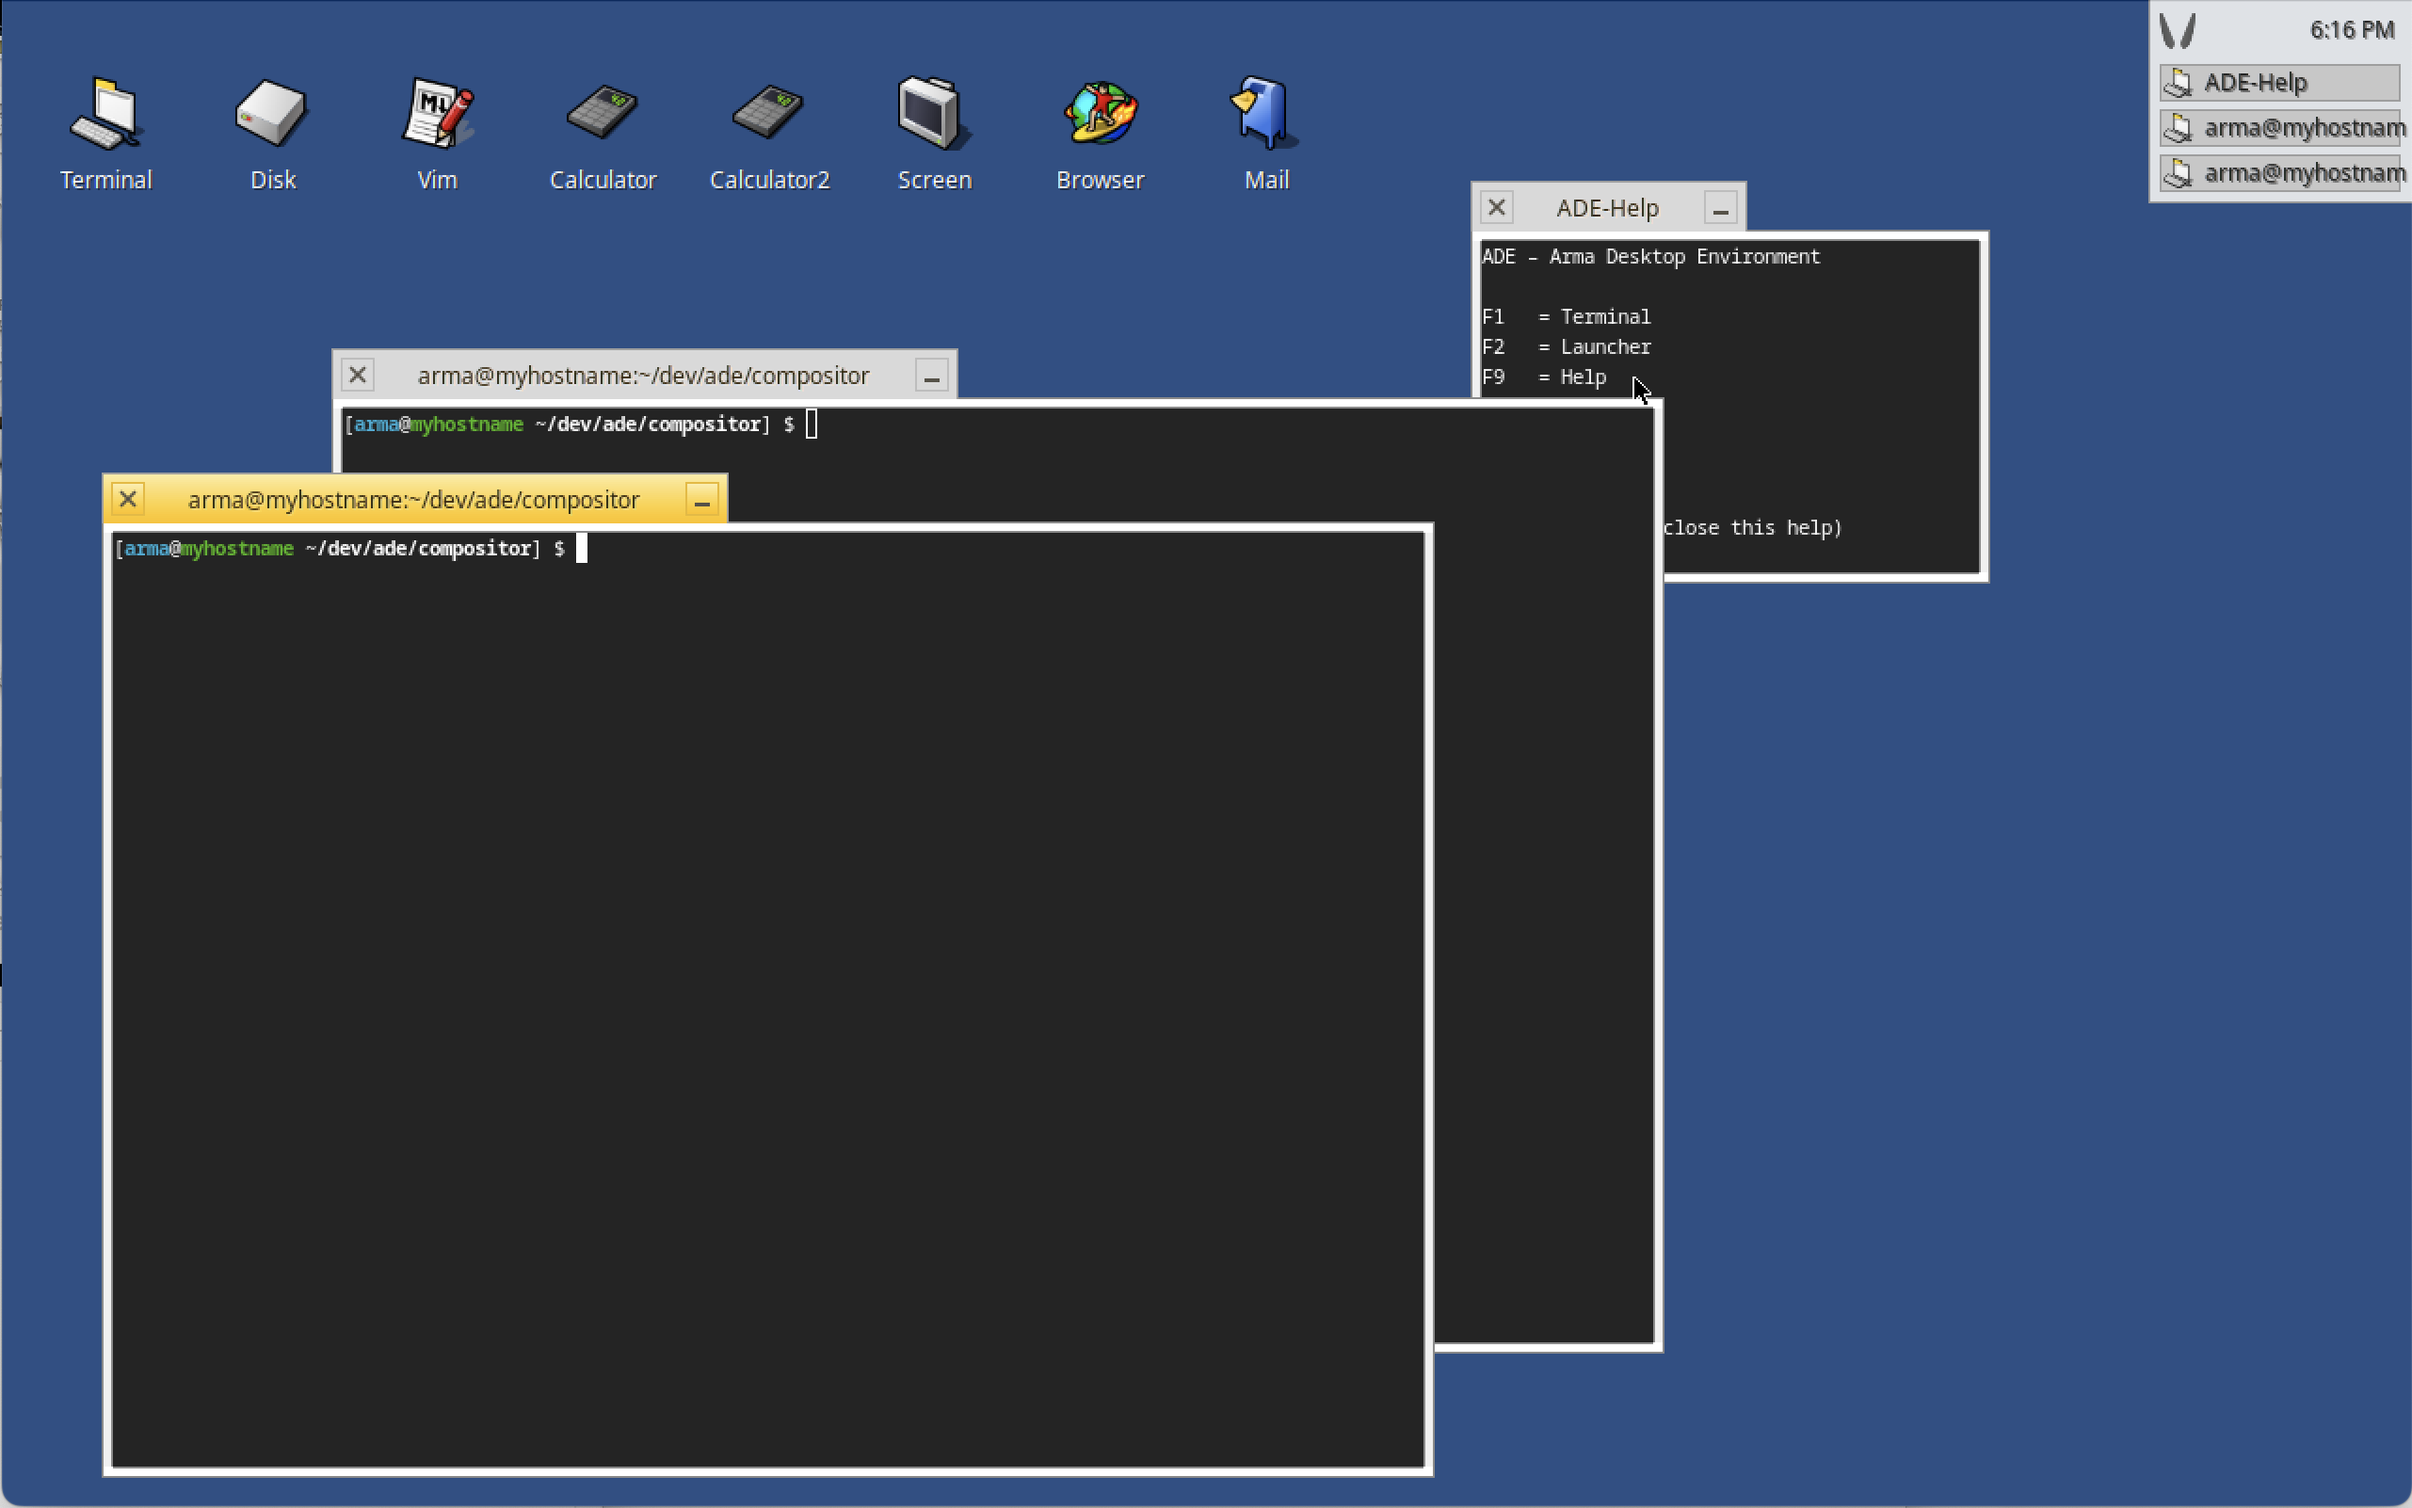
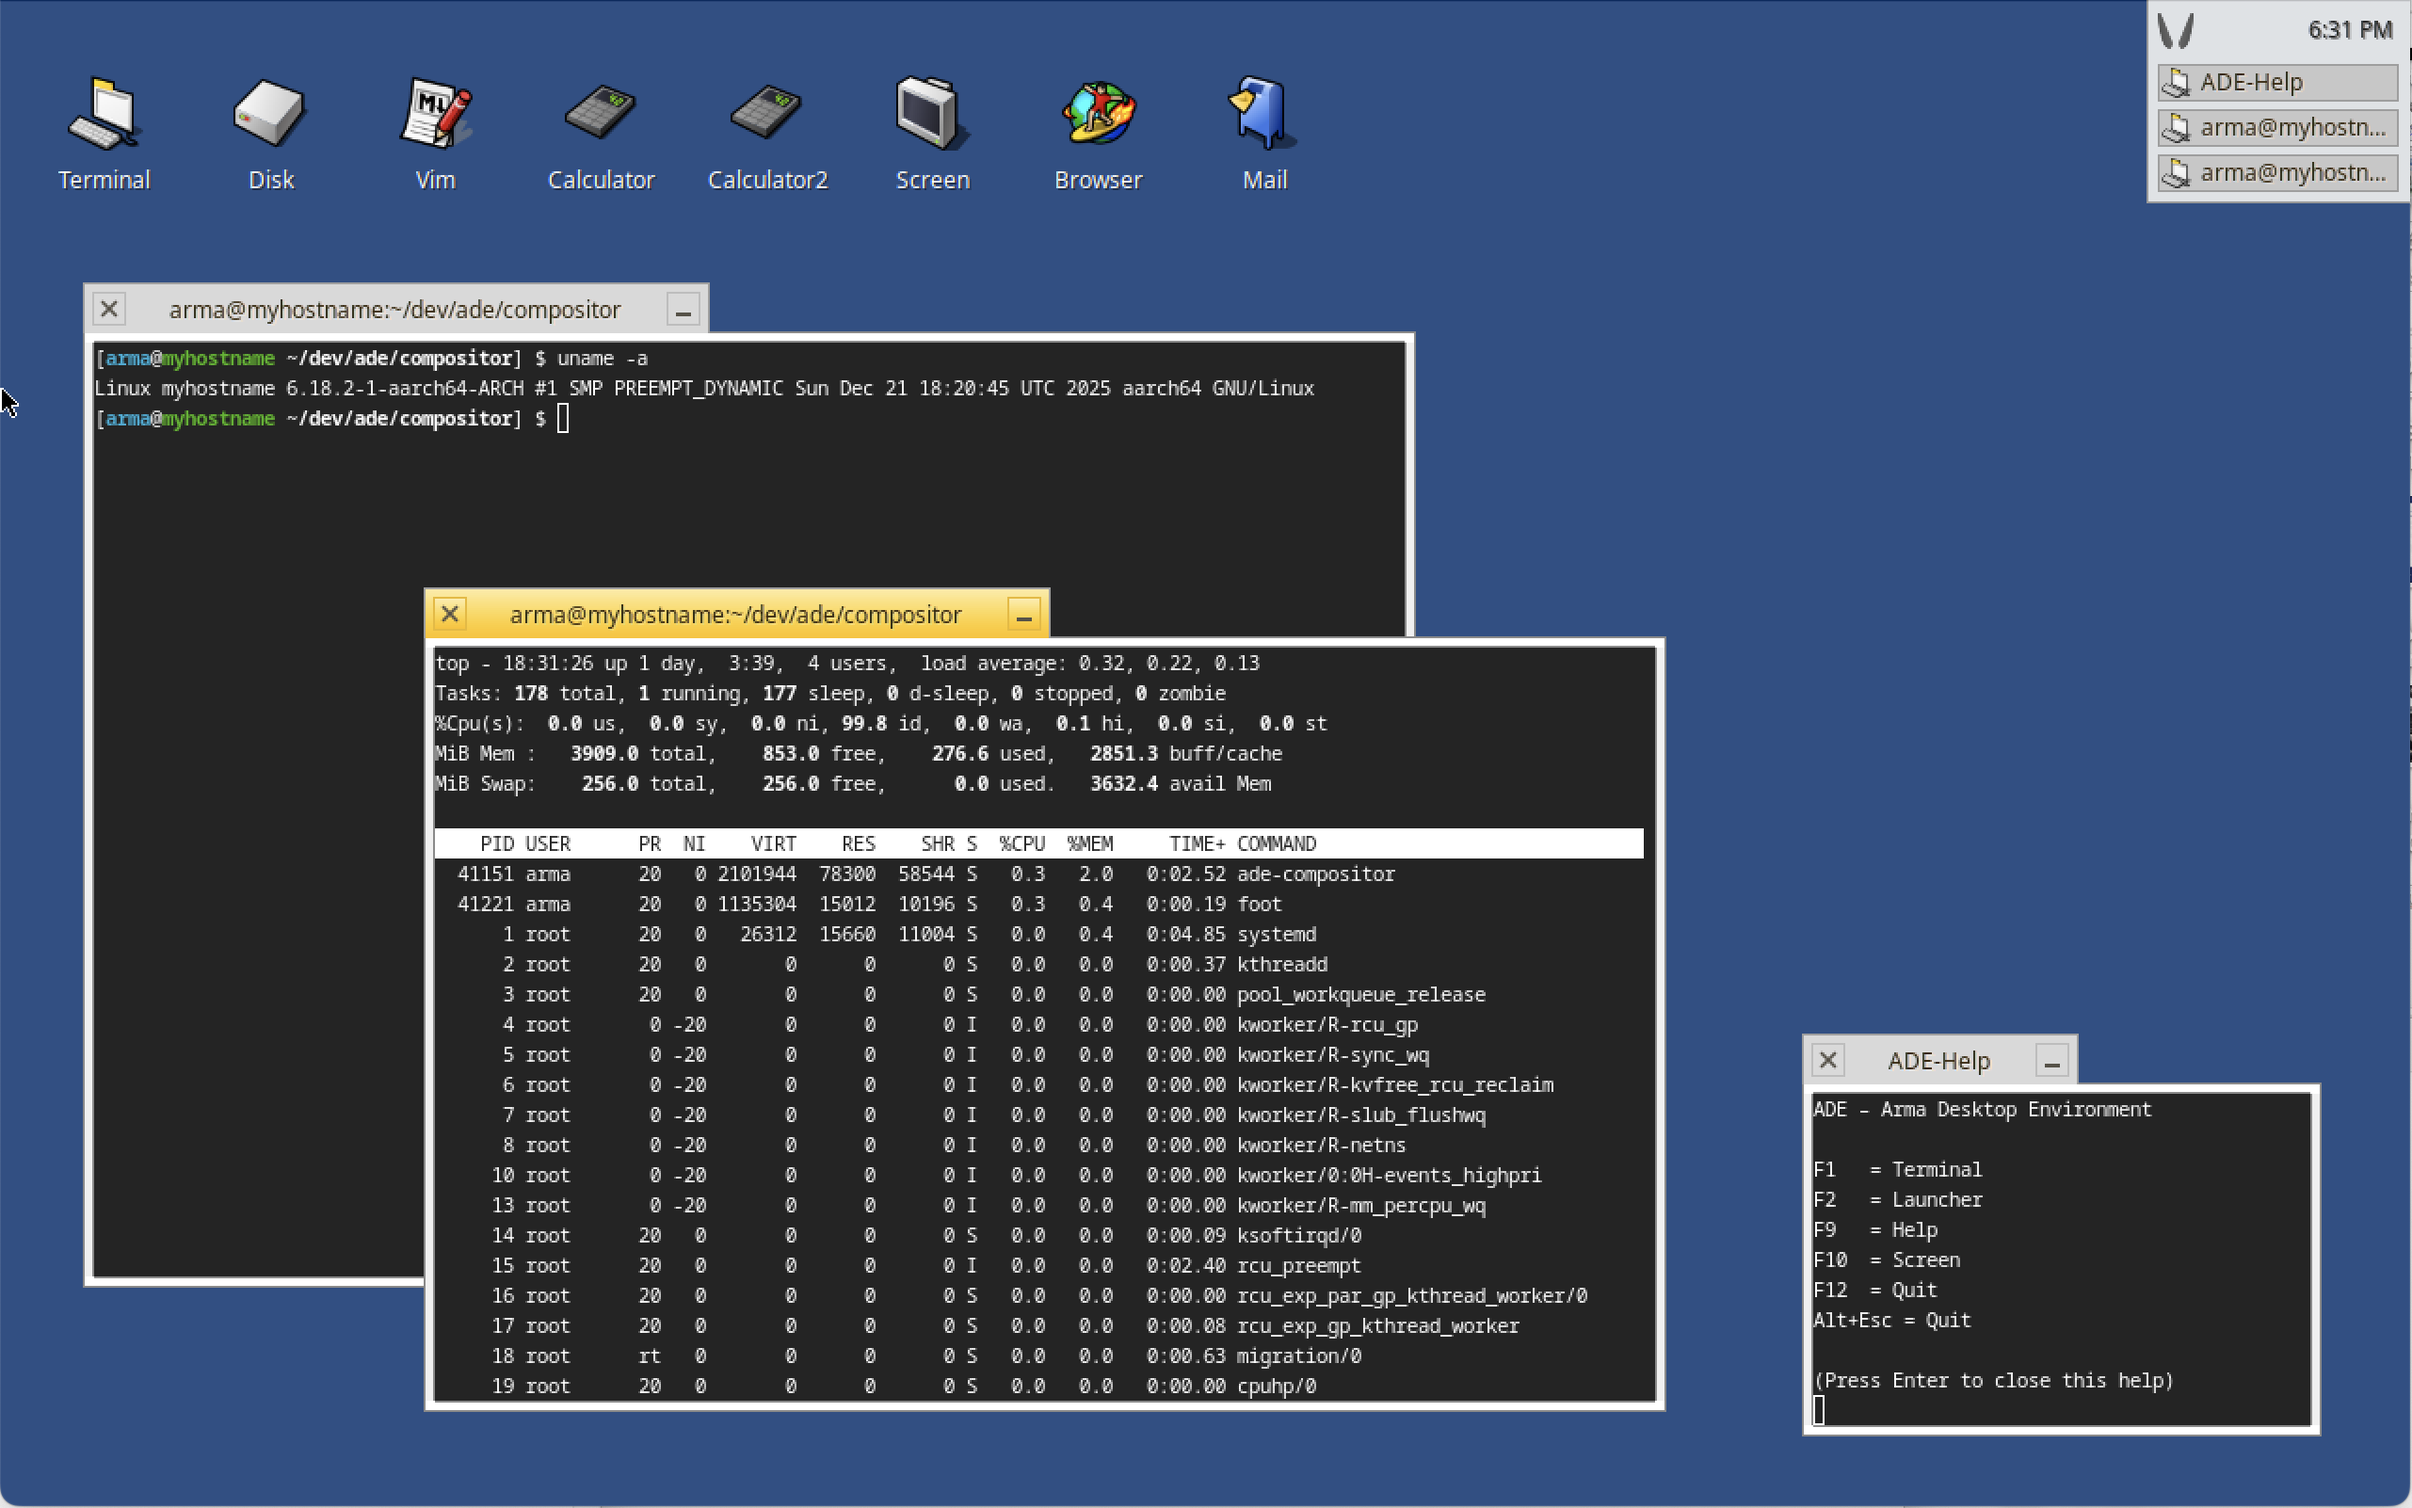
update

diff --git a/dev/ade/compositor/ade-compositor.c b/dev/ade/compositor/ade-compositor.c
@@ -5626,13 +5626,18 @@ static void ade_deskbar_rebuild_apps(struct tinywl_server *server) {
         }
 
         int text_w = 0, text_h = 0;
-        struct wlr_buffer *label_buf = ade_make_text_buffer(label, &text_w, &text_h);
+        int text_x = 22;
+        int max_text_w = slot_w - text_x - 4;
+        if (max_text_w < 16) {
+            max_text_w = 16;
+        }
+        struct wlr_buffer *label_buf =
+            ade_make_tab_title_buffer(label, max_text_w, &text_w, &text_h);
         if (label_buf != NULL) {
             struct wlr_scene_buffer *label_scene =
                 wlr_scene_buffer_create(item_tree, label_buf);
             wlr_buffer_drop(label_buf);
             if (label_scene != NULL) {
-                int text_x = 22;
                 int text_y = (slot_h - text_h) / 2;
                 if (text_y < 0) {
                     text_y = 0;
